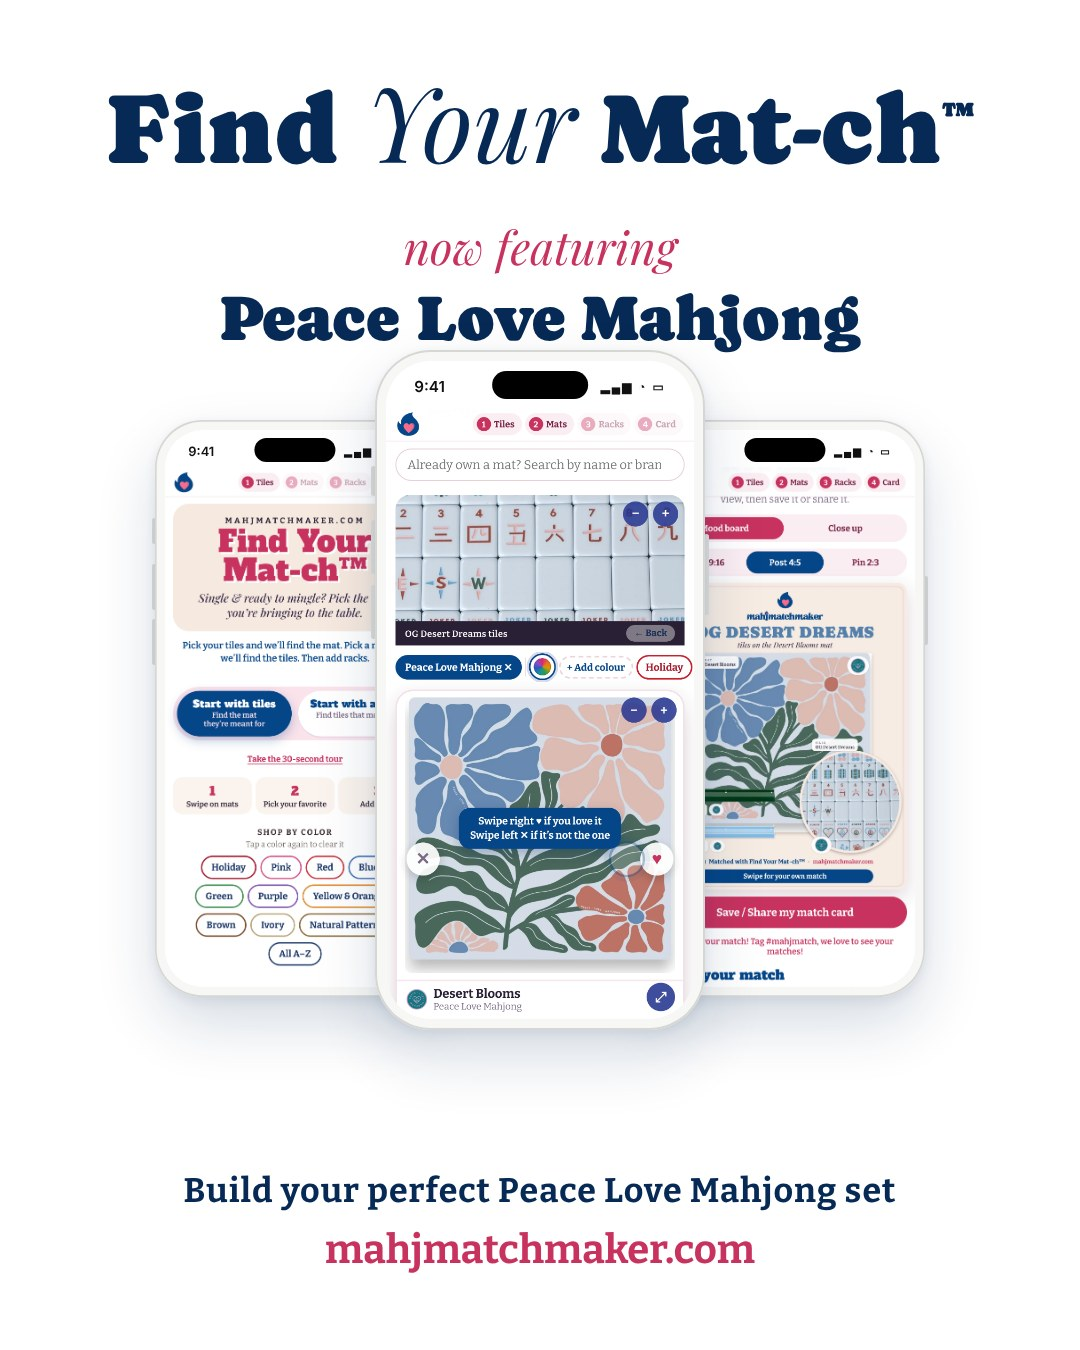
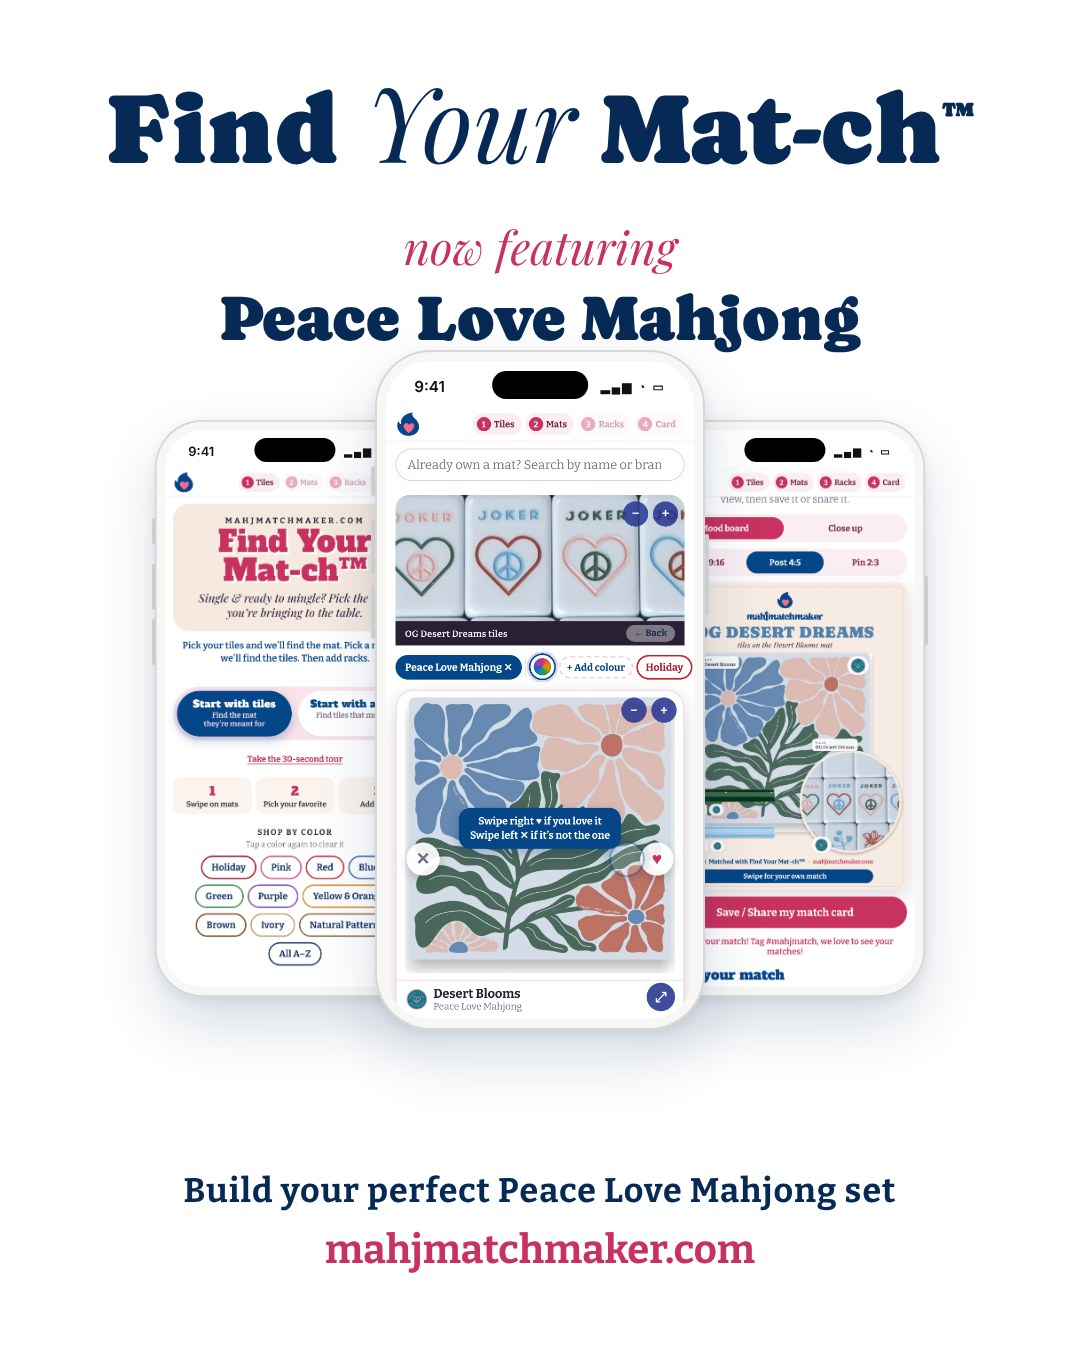
PLM partner graphic re-rendered (tile crop); partner yes
Claude-Session: https://claude.ai/code/session_01QxwYQtmWcAr4s5uYJYP3mA

Changed region(s): [[0.3667, 0.3733, 0.6417, 0.4667], [0.7333, 0.56, 0.825, 0.6222]]

diff --git a/docs/ANSWERS.md b/docs/ANSWERS.md
@@ -517,3 +517,4 @@ Tiffany: tabletop room images look AI, don't want them. Use the clean flat/aeria
 - Oct 27 3:06am (Main): Partner email: never promise ongoing new graphics. Bookmark line = "if you'd ever like additional graphics, just ask and we can place them there for you" (on request only). Removed the "reply / drop it in our Dropbox" line.
 - Oct 27 3:07am (Main): Partner email tone = INVITED, optional ("yours to use if you would like, no pressure"); never imply they are part of it or must use it; dropped "thank you for being part of this from day one".
 - Oct 27 3:08am (Main): Tiffany: missing a brand (PLM) without knowing is unacceptable. Built scripts/partner_send_check.py (email list vs graphics, DM-only list); must exit 0 before any partner send; noted at top of DESK.
+- Oct 27 3:15am (Main): Tiffany "partner yes" -> partner email approved (subject "Find Your Mat-ch™ is live! Launch graphics inside", invitational copy) incl. 31 graphics; PLM re-rendered with the zoomed Joker/flower tile crop (plmB). Schedule 7:00am ET once Dropbox link is in hand. Her note 3:14am: launch swipe carousel is oversimplified; must walk the whole flow.
